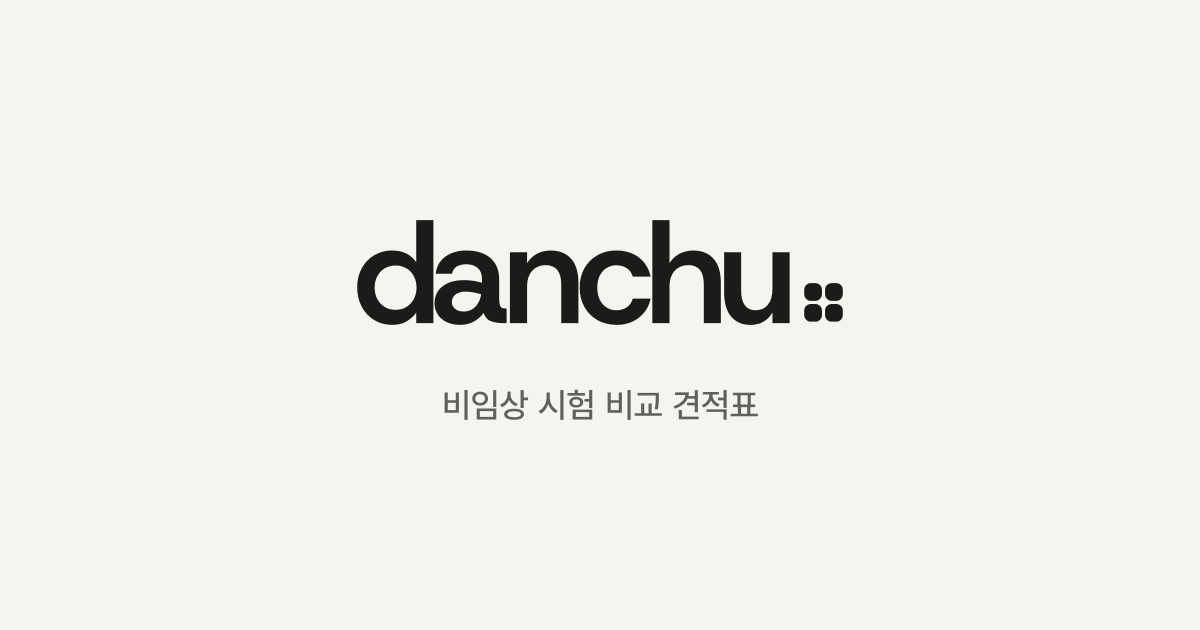
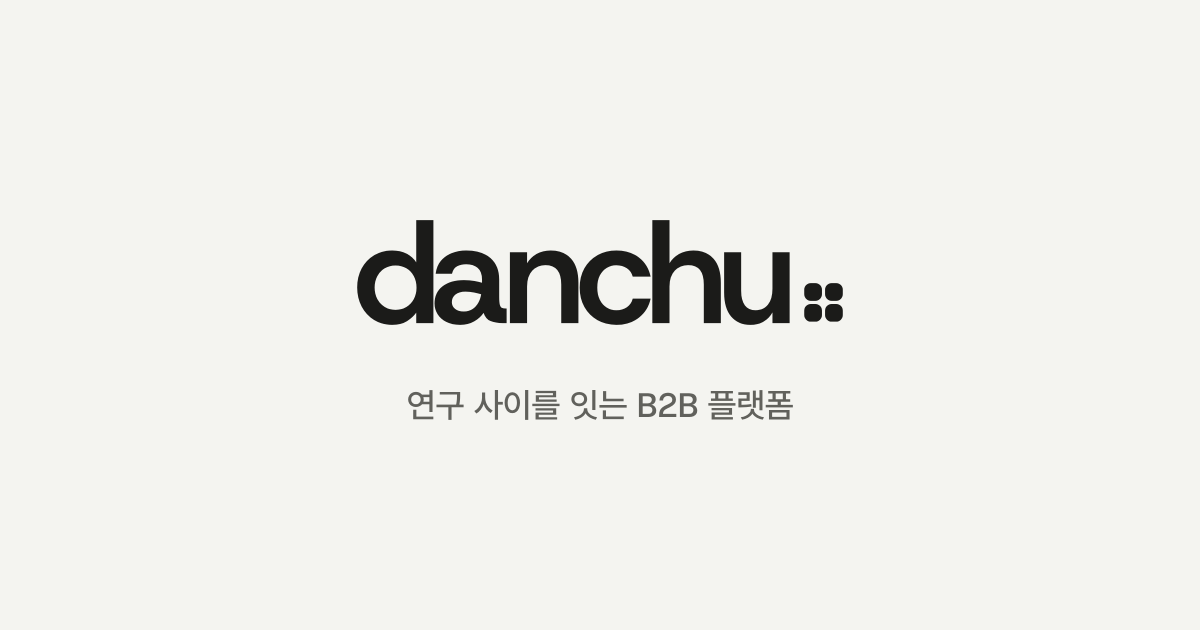
미리보기 이미지 아래 문구를 "연구 사이를 잇는 B2B 플랫폼"으로 바꾼다
Claude-Session: https://claude.ai/code/session_01WymvLcBtLXF1zFMsDPMrCd

Changed region(s): [[0.3392, 0.6032, 0.6783, 0.6635]]

diff --git a/scripts/og-share/og-share.html b/scripts/og-share/og-share.html
@@ -8,4 +8,4 @@ html,body{margin:0;width:1200px;height:630px;overflow:hidden;background:#F4F4F0}
 svg{width:520px;height:auto;display:block}
 p{margin:0;font-size:34px;font-weight:500;letter-spacing:-0.02em;color:#61615C}
 </style>
-<div class=c>__LOGO__<p>비임상 시험 비교 견적표</p></div>
+<div class=c>__LOGO__<p>연구 사이를 잇는 B2B 플랫폼</p></div>

diff --git a/lib/share-meta.ts b/lib/share-meta.ts
@@ -13,7 +13,7 @@ export const SHARE_IMAGE = {
   url: "/og-share.png",
   width: 1200,
   height: 630,
-  alt: "단추. 비임상 시험 비교 견적표",
+  alt: "단추. 연구 사이를 잇는 B2B 플랫폼",
 };
 
 export function shareMeta(title: string, description: string, path: string): Pick<Metadata, "openGraph" | "twitter"> {
